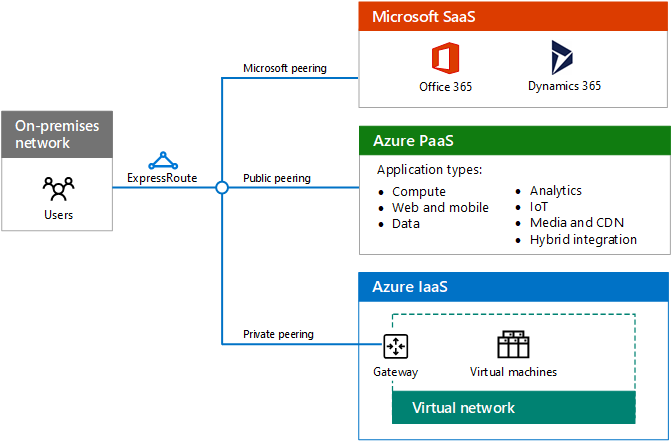
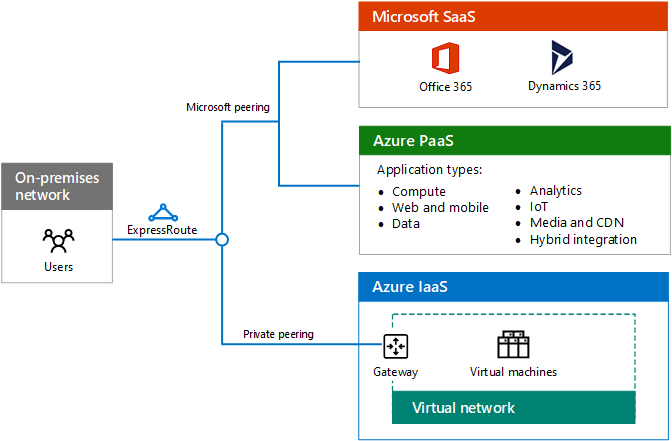
Updates for customer issue 263

diff --git a/Enterprise/expressroute-for-microsoft-cloud-connectivity.md b/Enterprise/expressroute-for-microsoft-cloud-connectivity.md
@@ -3,7 +3,7 @@ title: "ExpressRoute for Microsoft cloud connectivity"
 ms.author: josephd
 author: JoeDavies-MSFT
 manager: laurawi
-ms.date: 12/05/2018
+ms.date: 01/02/2018
 ms.audience: ITPro
 ms.topic: conceptual
 ms.service: o365-solutions
@@ -91,25 +91,19 @@ Table 1 shows the three primary connectivity models for ExpressRoute connections
   
 ## ExpressRoute peering relationships to Microsoft cloud services
 
-A single ExpressRoute connection supports up to three different Border Gateway Protocol (BGP) peering relationships to different parts of the Microsoft cloud. BPG uses peering relationships to establish trust and exchange routing information.
+A single ExpressRoute connection supports up to two different Border Gateway Protocol (BGP) peering relationships to different parts of the Microsoft cloud. BPG uses peering relationships to establish trust and exchange routing information.
   
-**Figure 3: The three different BGP relationships in a single ExpressRoute connection**
+**Figure 3: The two different BGP relationships in a single ExpressRoute connection**
 
-![Figure 3: The three different BGP relationships in a single ExpressRoute connection](media/Network-Poster/ERPeering.png)
+![Figure 3: The two different BGP relationships in a single ExpressRoute connection](media/Network-Poster/ERPeering.png)
   
-Figure 3 shows an ExpressRoute connection from an on-premises network. The ExpressRoute connection has three logical peering relationships. A Microsoft peering relationship goes to Microsoft SaaS services, including Office 365 and Dynamcs CRM Online. A public peering relationship goes to Azure PaaS services. A private peering relationship goes to Azure IaaS and to a virtual network gateway that hosts virtual machines.
+Figure 3 shows an ExpressRoute connection from an on-premises network. The ExpressRoute connection has two logical peering relationships. A Microsoft peering relationship goes to Microsoft SaaS services, including Office 365, Dynamcs 365, and Azure PaaS services. A private peering relationship goes to Azure IaaS and to a virtual network gateway that hosts virtual machines.
   
 The Microsoft peering BGP relationship: 
   
-- Is from a router in your DMZ to the public addresses of Office 365 and Dynamics 365 services. 
+- Is from a router in your DMZ to the public addresses of Office 365, Dynamics 365, and Azure services. 
     
 - Supports bidirectional-initiated communication.
-    
-The public peering BGP relationship:
-  
-- Is from a router in your DMZ to the public IP addresses of Azure services.
-    
-- Supports unidirectional-initiated communication from on-premises systems only. The peering relationship does not support communication initiated from Azure PaaS services.
     
 The private peering BGP relationship:
   
@@ -118,6 +112,10 @@ The private peering BGP relationship:
 - Supports bidirectional-initiated communication.
     
 - Is an extension of your organization network to the Microsoft cloud, complete with internally-consistent addressing and routing.
+
+>[!Note]
+>The public peering BGP relationship described in previous versions of this article has been deprecated.
+>
     
 ## Example of application deployment and traffic flow with ExpressRoute
 
@@ -245,7 +243,7 @@ You can also incorporate the following options into your ExpressRoute deployment
   
 - **Security at your edge:** To provide advanced security for the traffic sent and received over the ExpressRoute connection, such as traffic inspection or intrusion/malware detection, place your security appliances in the traffic path within your DMZ or at the border of your intranet.
     
-    Internet traffic for VMs To prevent Azure VMs from initiating traffic directly with Internet locations, advertise the default route to Microsoft. Traffic to the Internet is routed across the ExpressRoute connection and through your on-premises proxy servers. Traffic from Azure VMs to Azure PaaS services or Office 365 is routed back across the ExpressRoute connection.
+- **Internet traffic for VMs:** To prevent Azure VMs from initiating traffic directly with Internet locations, advertise the default route to Microsoft. Traffic to the Internet is routed across the ExpressRoute connection and through your on-premises proxy servers. Traffic from Azure VMs to Azure PaaS services or Office 365 is routed back across the ExpressRoute connection.
     
 - **WAN optimizers:** You can deploy WAN optimizers on both sides of a private peering connection for a cross-premises Azure virtual network (VNet). Inside the Azure VNet, use a WAN optimizer network appliance from the Azure marketplace and user-defined routing to route the traffic through the appliance.
     
